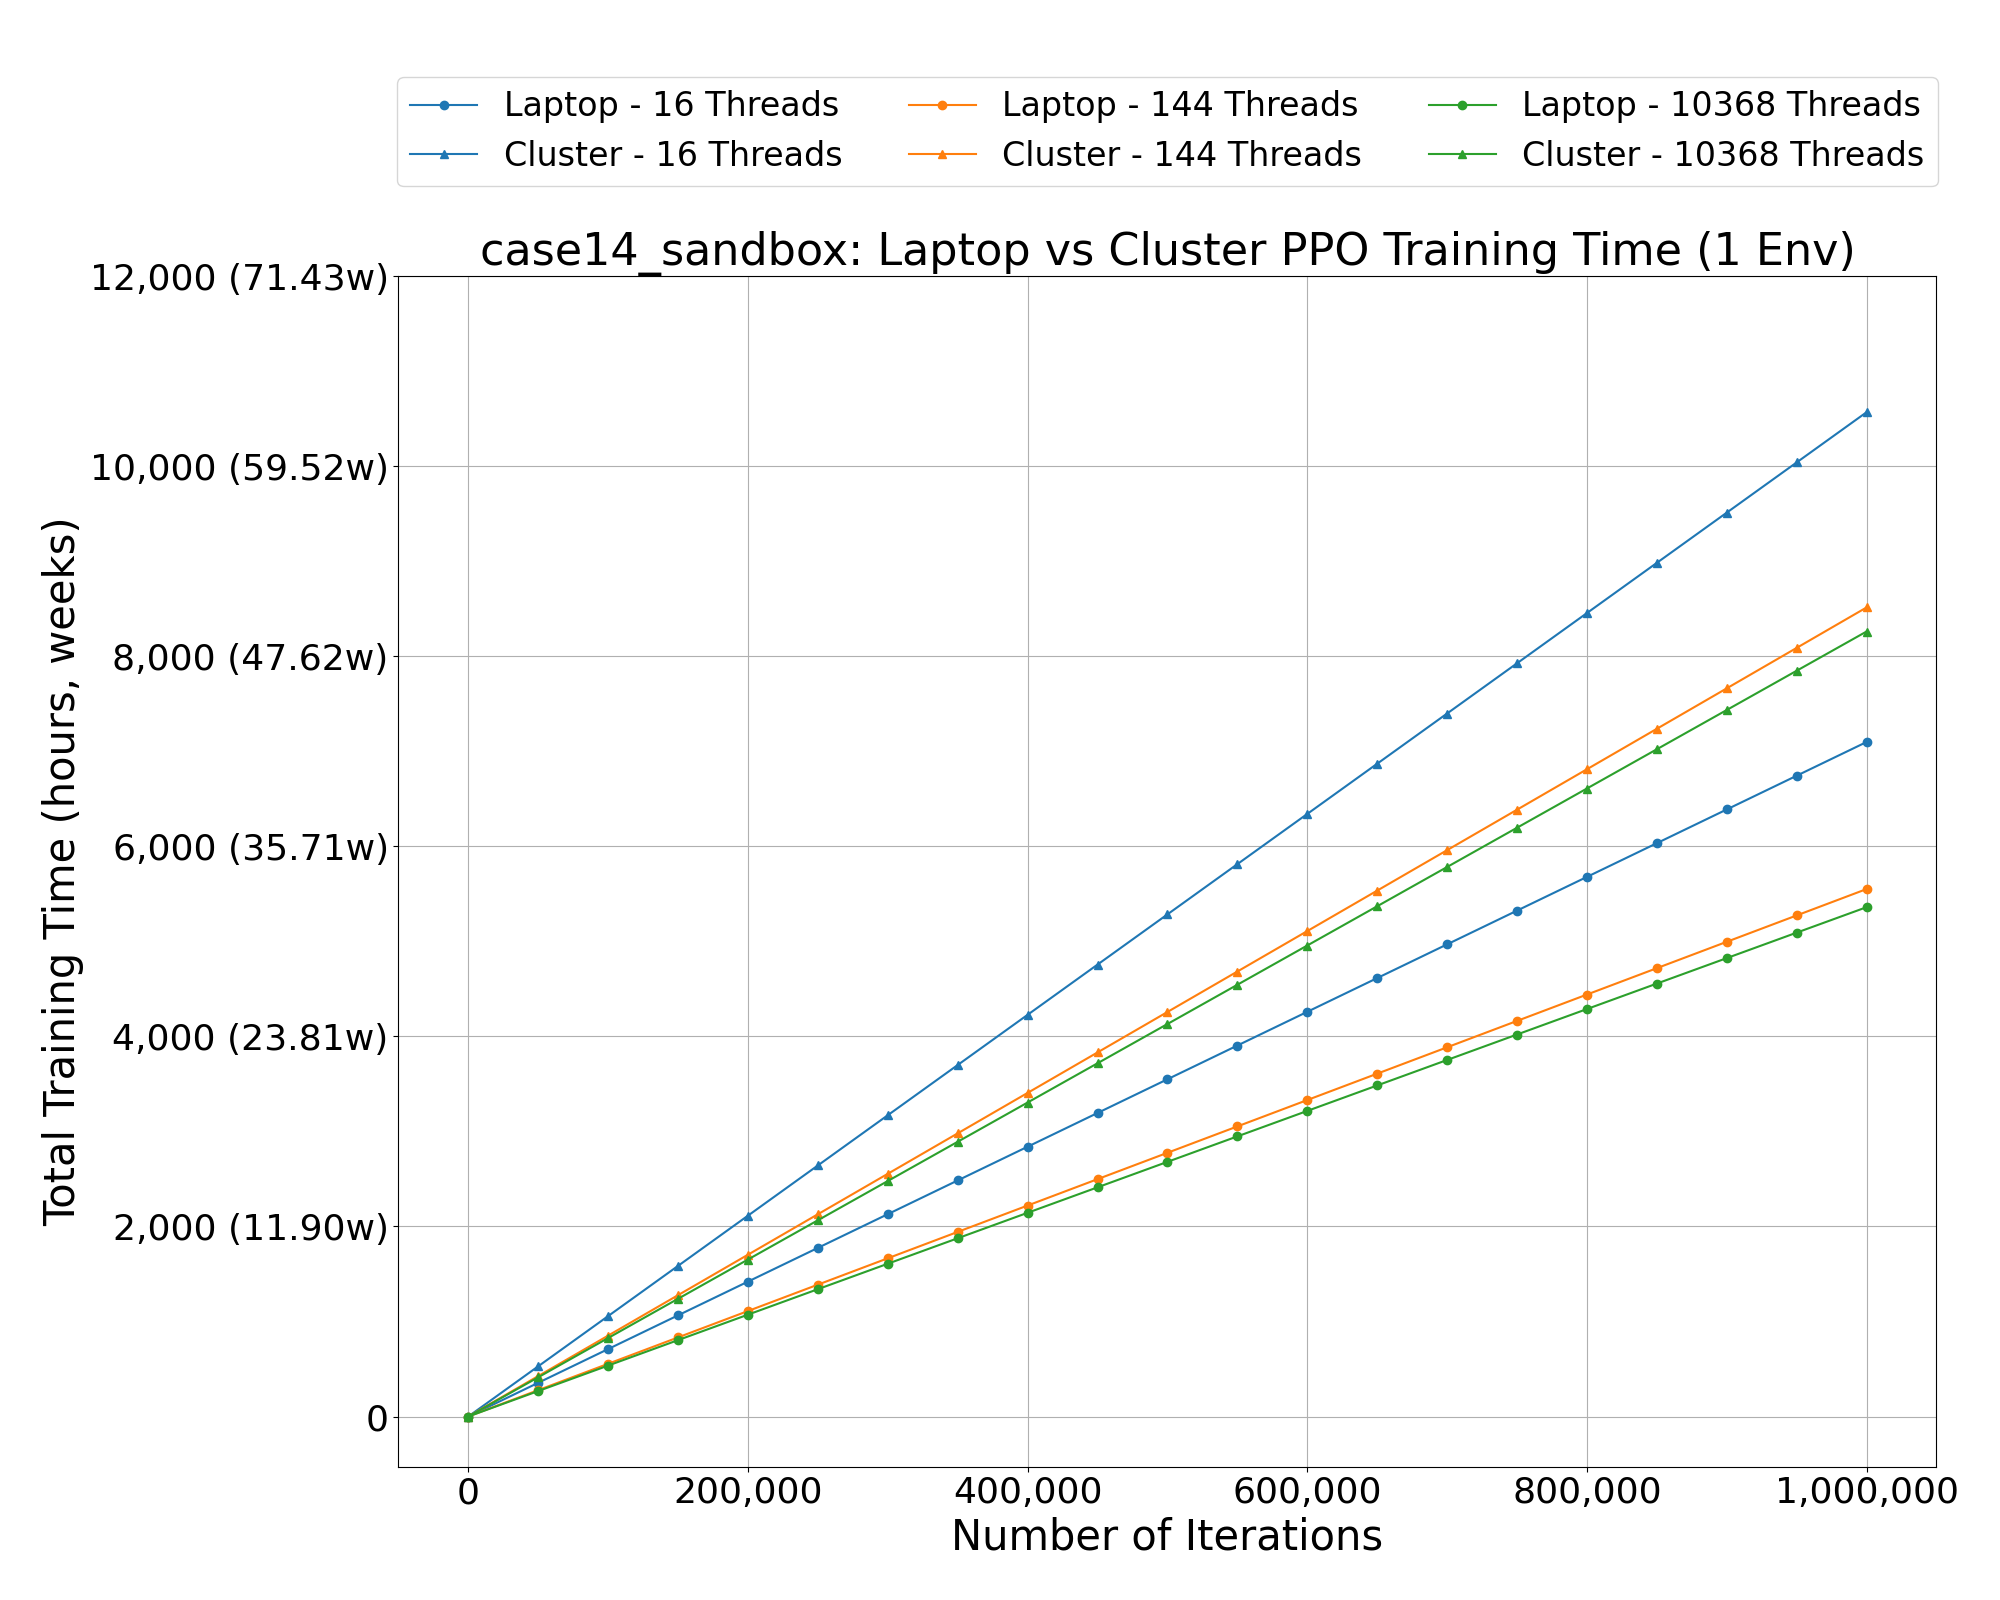
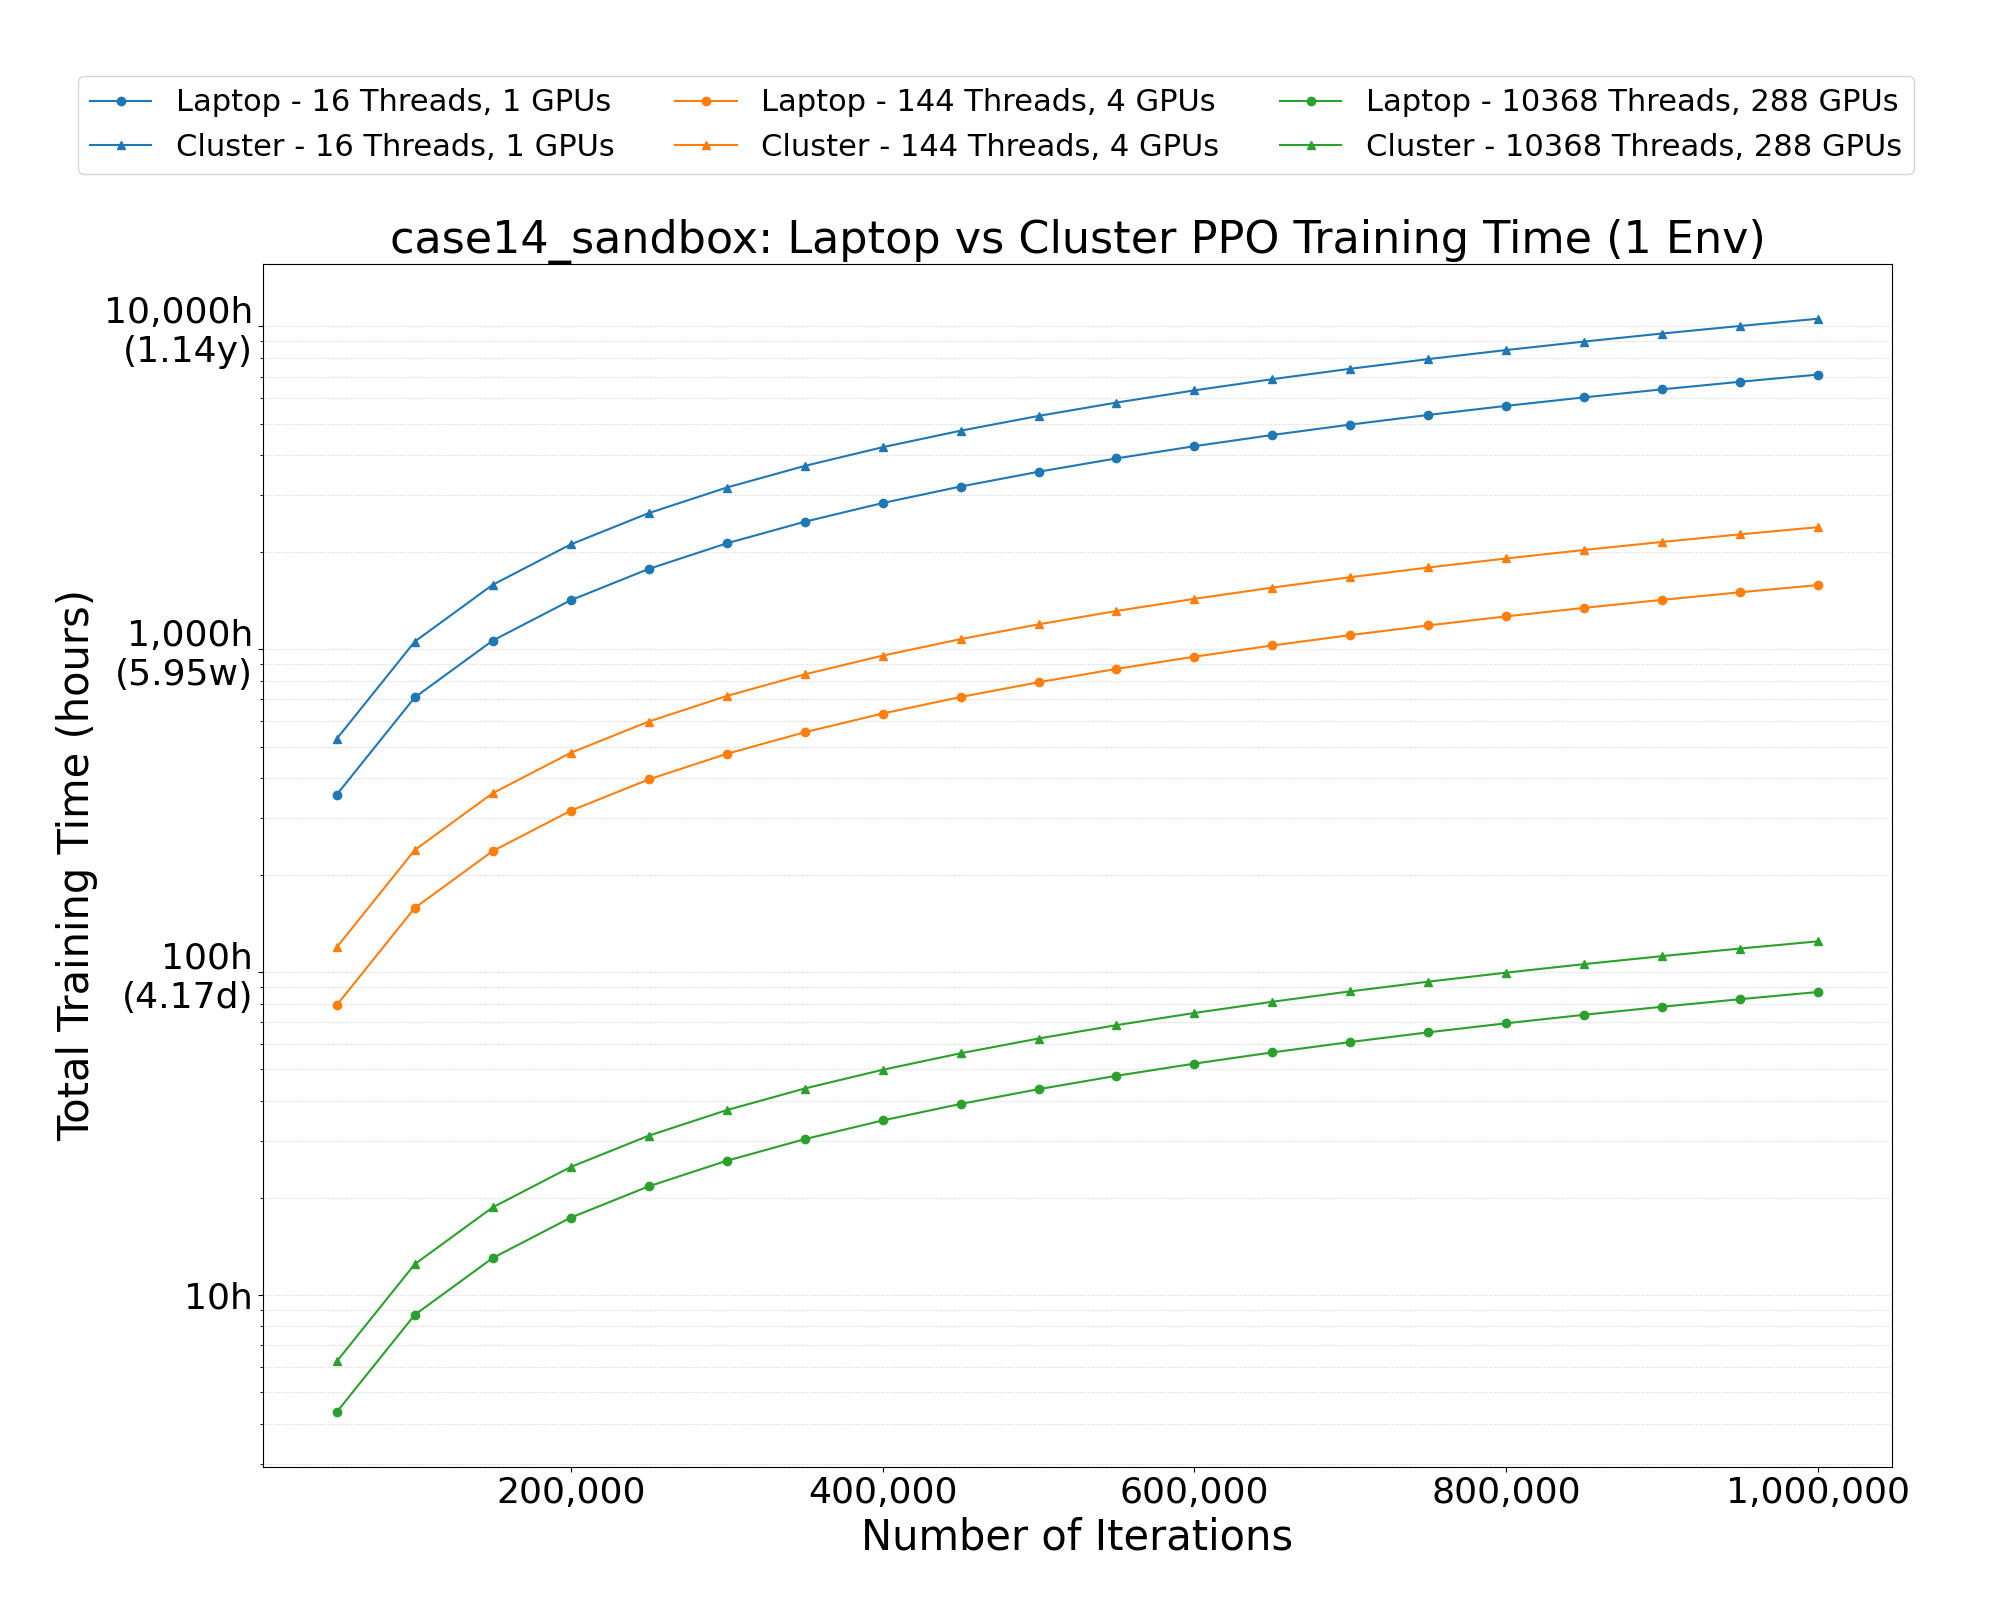
WIP plots

diff --git a/src/plots.py b/src/plots.py
@@ -14,10 +14,17 @@ def mask_model_training_time(
 
 
 def ppo_training_time(
-    iterations, sampling_time, num_threads, learner_update_time, evaluation_time
+    iterations,
+    sampling_time,
+    num_threads,
+    learner_update_time,
+    evaluation_time,
+    num_gpus,
 ):
     return iterations * (
-        (sampling_time / num_threads) + learner_update_time + evaluation_time
+        (sampling_time / num_threads)
+        + (learner_update_time / num_gpus)
+        + evaluation_time
     )
 
 
@@ -96,10 +103,10 @@ def plot_env_comparison(
             # Manually set four log ticks (adjust values as needed for your data)
             yticks = [1e2, 1e3, 1e4, 1e5]
             ylabels = [
-                f"{int(yticks[0]):,}\n({yticks[0]/24:.1f}d)",
-                f"{int(yticks[1]):,}\n({yticks[1]/168:.1f}w)",
-                f"{int(yticks[2]):,}\n({yticks[2]/168:.1f}w)",
-                f"{int(yticks[3]):,}\n({yticks[3]/8760:.2f}y)",
+                f"{int(yticks[0]):,}h\n({yticks[0]/24:.1f}d)",
+                f"{int(yticks[1]):,}h\n({yticks[1]/168:.1f}w)",
+                f"{int(yticks[2]):,}h\n({yticks[2]/168:.1f}w)",
+                f"{int(yticks[3]):,}h\n({yticks[3]/8760:.2f}y)",
             ]
             ax.set_yticks(yticks)
             ax.set_yticklabels(ylabels)
@@ -170,7 +177,7 @@ def plot_ppo_env_comparison(threads_list):
         n_threads: color_cycle(i) for i, n_threads in enumerate(threads_list)
     }
 
-    plt.figure(figsize=(20, 16))  # Increase height
+    plt.figure(figsize=(20, 16))
     plt.rcParams.update(
         {
             "font.size": 28,
@@ -178,7 +185,7 @@ def plot_ppo_env_comparison(threads_list):
             "axes.labelsize": 30,
             "xtick.labelsize": 26,
             "ytick.labelsize": 26,
-            "legend.fontsize": 24,
+            "legend.fontsize": 22,  # Smaller legend font
             "legend.title_fontsize": 26,
         }
     )
@@ -186,6 +193,7 @@ def plot_ppo_env_comparison(threads_list):
     lines = []
     labels = []
     for n_threads in threads_list:
+        num_gpus = max(1, int(np.ceil(n_threads / 36)))
         for system_name, marker, _ in systems:
             stats = env_stats[system_name][1]
             times = [
@@ -195,32 +203,46 @@ def plot_ppo_env_comparison(threads_list):
                     num_threads=n_threads,
                     learner_update_time=stats["learner_update_time"],
                     evaluation_time=stats["evaluation_time"],
+                    num_gpus=num_gpus,
                 )
                 / 3600  # convert to hours
                 for iters in iterations_range
             ]
+            if len(times) > 0:
+                times[0] = np.nan
             (line,) = plt.plot(
                 iterations_range,
                 times,
                 marker=marker,
                 color=thread_to_color[n_threads],
-                label=f"{system_name} - {n_threads} Threads",
+                label=f"{system_name} - {n_threads} Threads, {num_gpus} GPUs",
             )
             lines.append(line)
-            labels.append(f"{system_name} - {n_threads} Threads")
+            labels.append(f"{system_name} - {n_threads} Threads, {num_gpus} GPUs")
 
     plt.xlabel("Number of Iterations")
 
-    # Add weeks to y-axis labels for sandbox PPO
     ax = plt.gca()
-    hours_ticks = ax.get_yticks()
-    hours_ticks = [tick for tick in hours_ticks if tick >= 0]
-    week_labels = [
-        f"{int(tick):,} ({tick/168:.2f}w)" if tick > 0 else "0" for tick in hours_ticks
+    ax.set_yscale("log")
+    # Manually set four log ticks (adjust values as needed for your data)
+    yticks = [1e1, 1e2, 1e3, 1e4]
+    ylabels = [
+        f"{int(yticks[0]):,}h",
+        f"{int(yticks[1]):,}h\n({yticks[1]/24:.2f}d)",
+        f"{int(yticks[2]):,}h\n({yticks[2]/168:.2f}w)",
+        f"{int(yticks[3]):,}h\n({yticks[3]/8760:.2f}y)",
     ]
-    ax.set_yticks(hours_ticks)
-    ax.set_yticklabels(week_labels)
-    plt.ylabel("Total Training Time (hours, weeks)")
+    ax.set_yticks(yticks)
+    ax.set_yticklabels(ylabels)
+
+    # Add more horizontal grid lines (minor grid)
+    ax.yaxis.set_minor_locator(
+        mticker.LogLocator(base=10.0, subs=np.arange(1, 10), numticks=100)
+    )
+    ax.grid(which="minor", axis="y", linestyle=":", linewidth=0.7, alpha=0.6)
+    ax.grid(which="major", axis="y", linestyle="-", linewidth=1.2)
+
+    plt.ylabel("Total Training Time (hours)")
 
     plt.title("case14_sandbox: Laptop vs Cluster PPO Training Time (1 Env)")
     plt.legend(
@@ -228,11 +250,11 @@ def plot_ppo_env_comparison(threads_list):
         labels,
         ncol=len(threads_list),
         loc="lower center",
-        bbox_to_anchor=(0.5, 1.07),
+        bbox_to_anchor=(0.45, 1.07),
         borderaxespad=0.2,
         frameon=True,
     )
-    plt.grid(True)
+    plt.grid(True, which="both", axis="y", linestyle=":", linewidth=0.7, alpha=0.6)
     plt.gca().xaxis.set_major_formatter(mticker.StrMethodFormatter("{x:,.0f}"))
     plt.tight_layout(rect=[0, 0, 1, 0.98])  # Leave more space for legend
 
